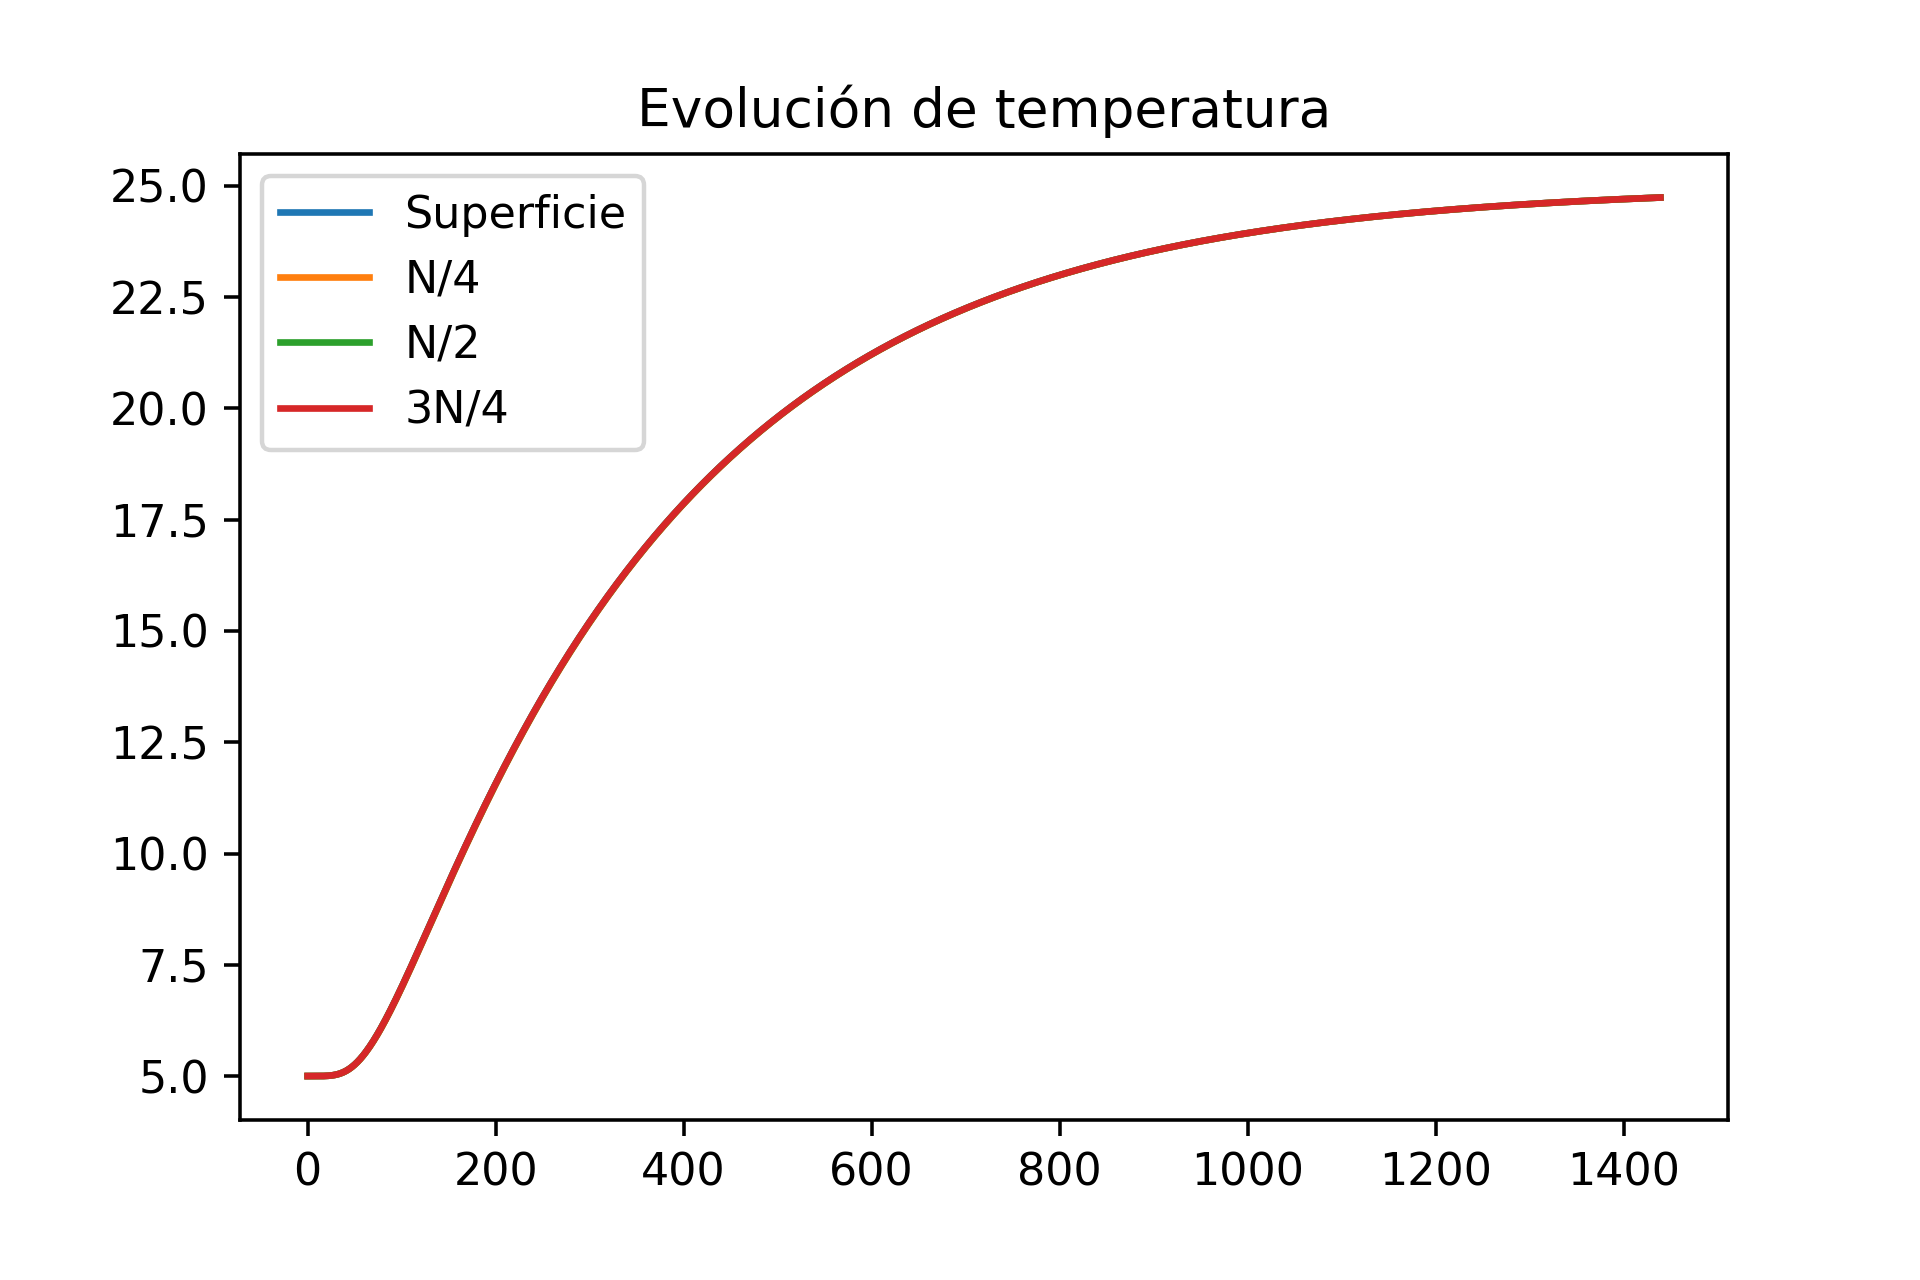
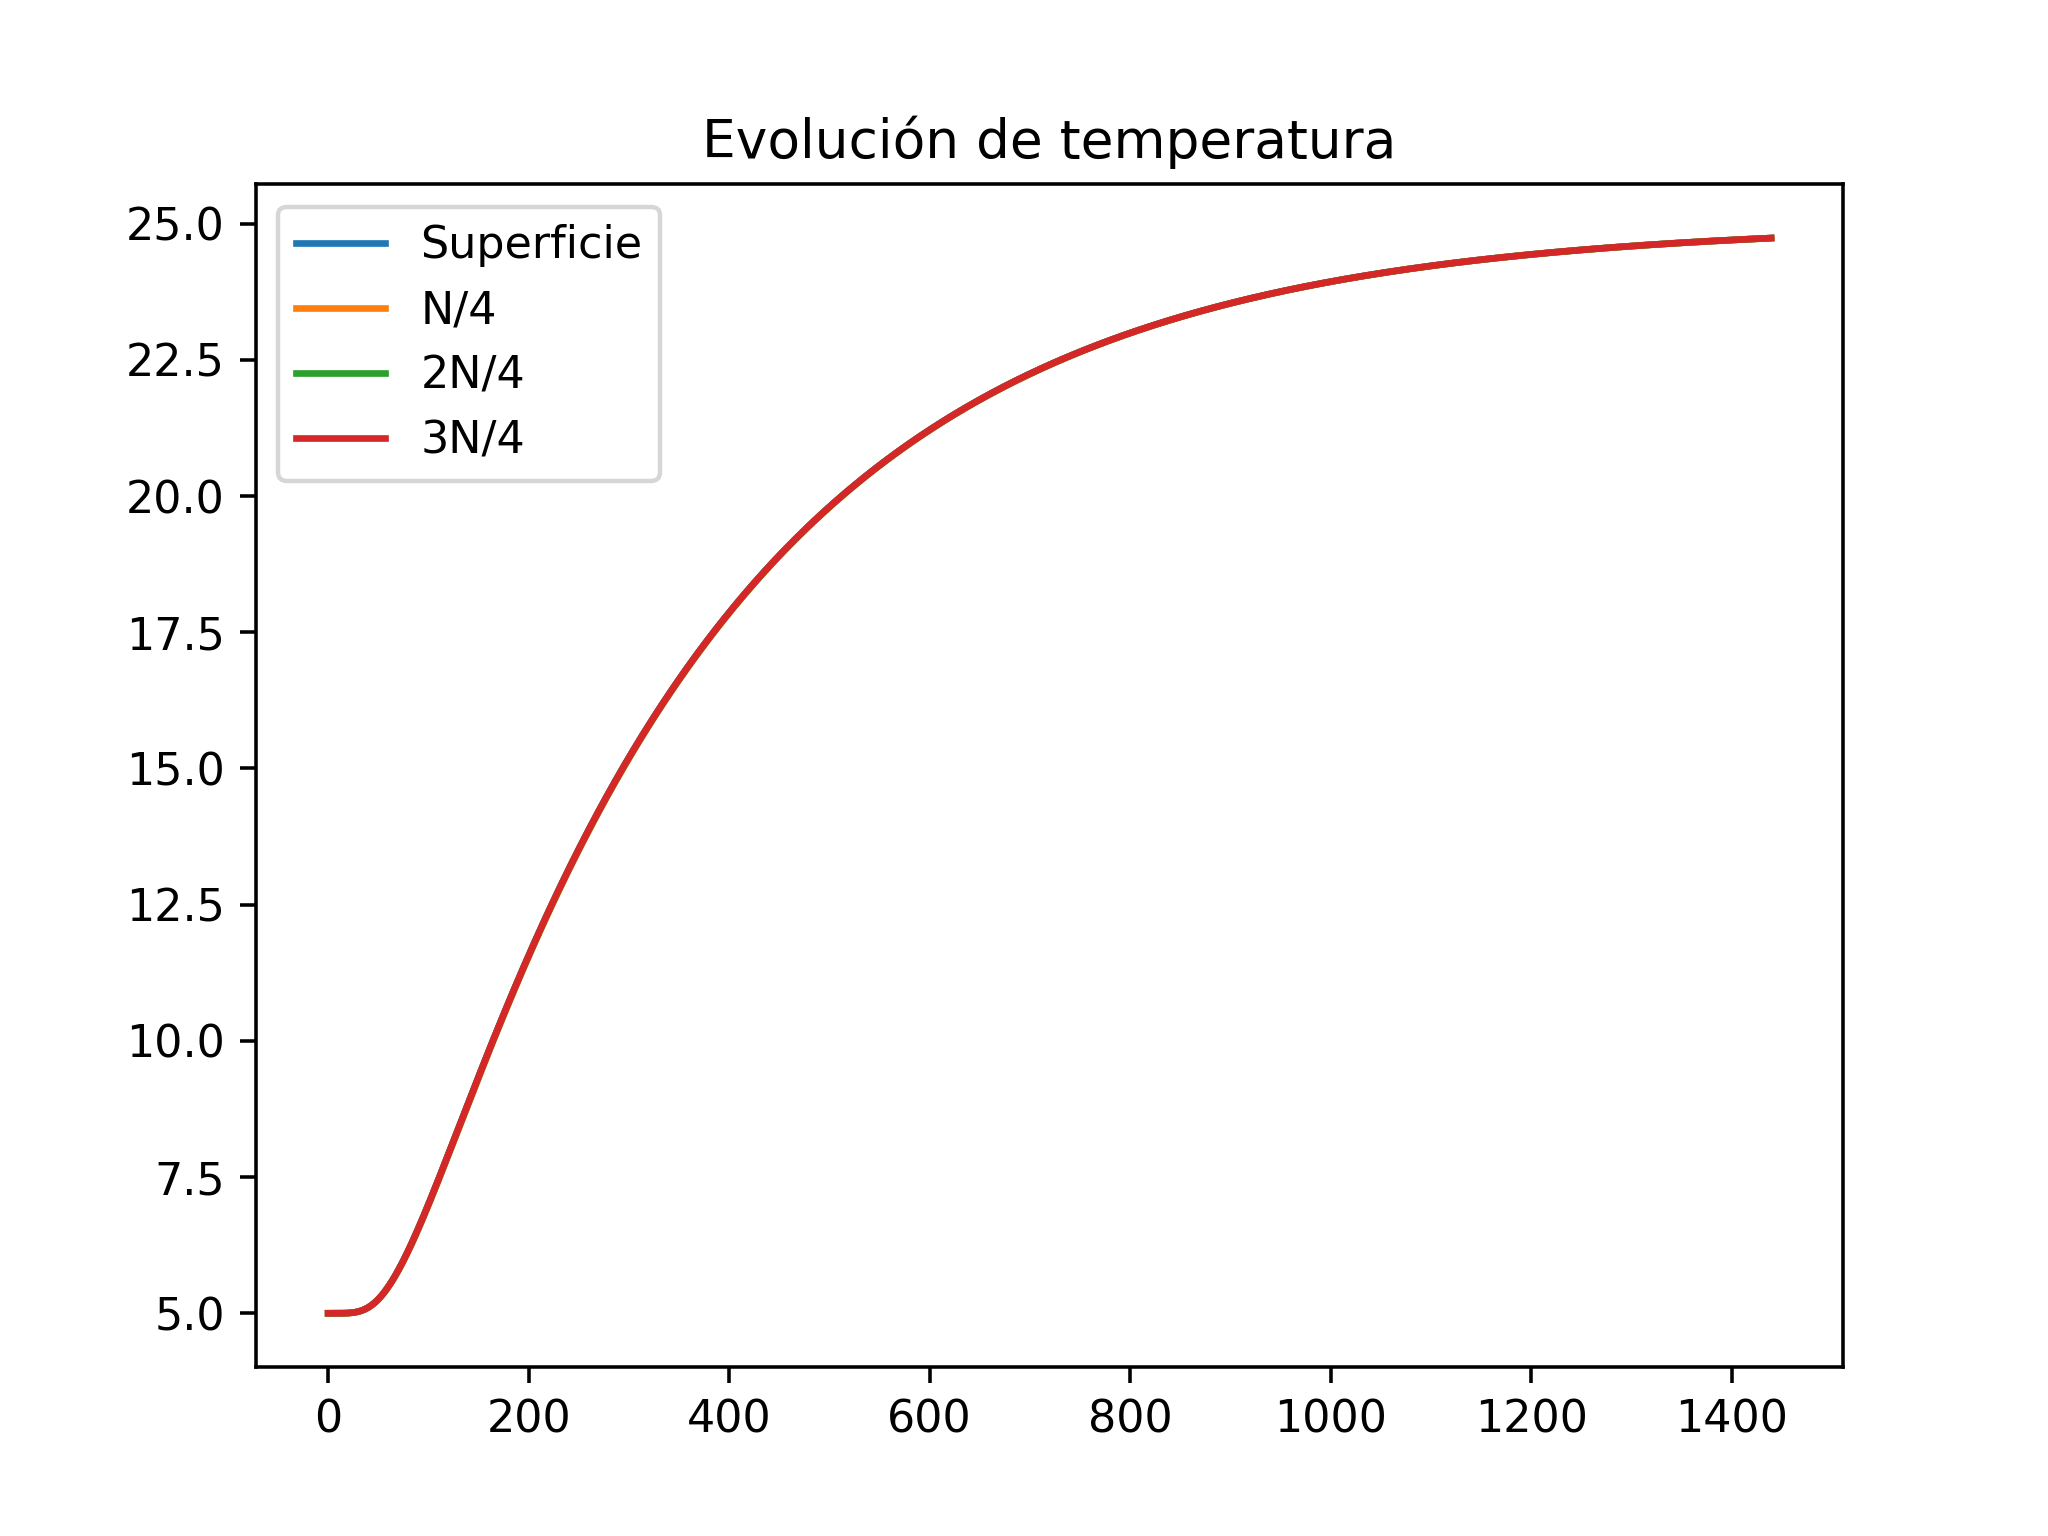
caso5

diff --git a/Entrega_5/caso_5.py b/Entrega_5/caso_5.py
@@ -156,7 +156,7 @@ for k in range(int32(Days/dt)):
 figure(2)
 plot(range(int32(Days / dt)), u_0, label='Superficie')
 plot(range(int32(Days / dt)), u_N4, label='N/4')
-plot(range(int32(Days / dt)), u_2N4, label='N/2')
+plot(range(int32(Days / dt)), u_2N4, label='2N/4')
 plot(range(int32(Days / dt)), u_3N4, label='3N/4')
 title("Evolución de temperatura")
 legend()
